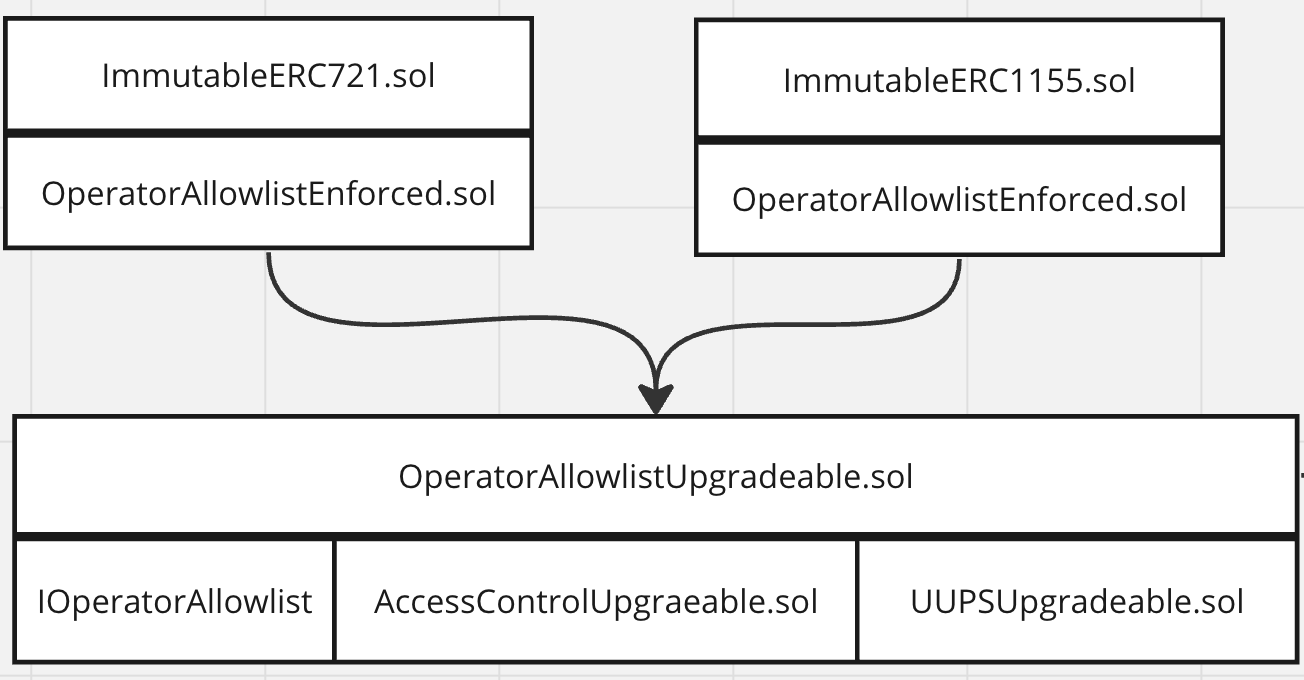
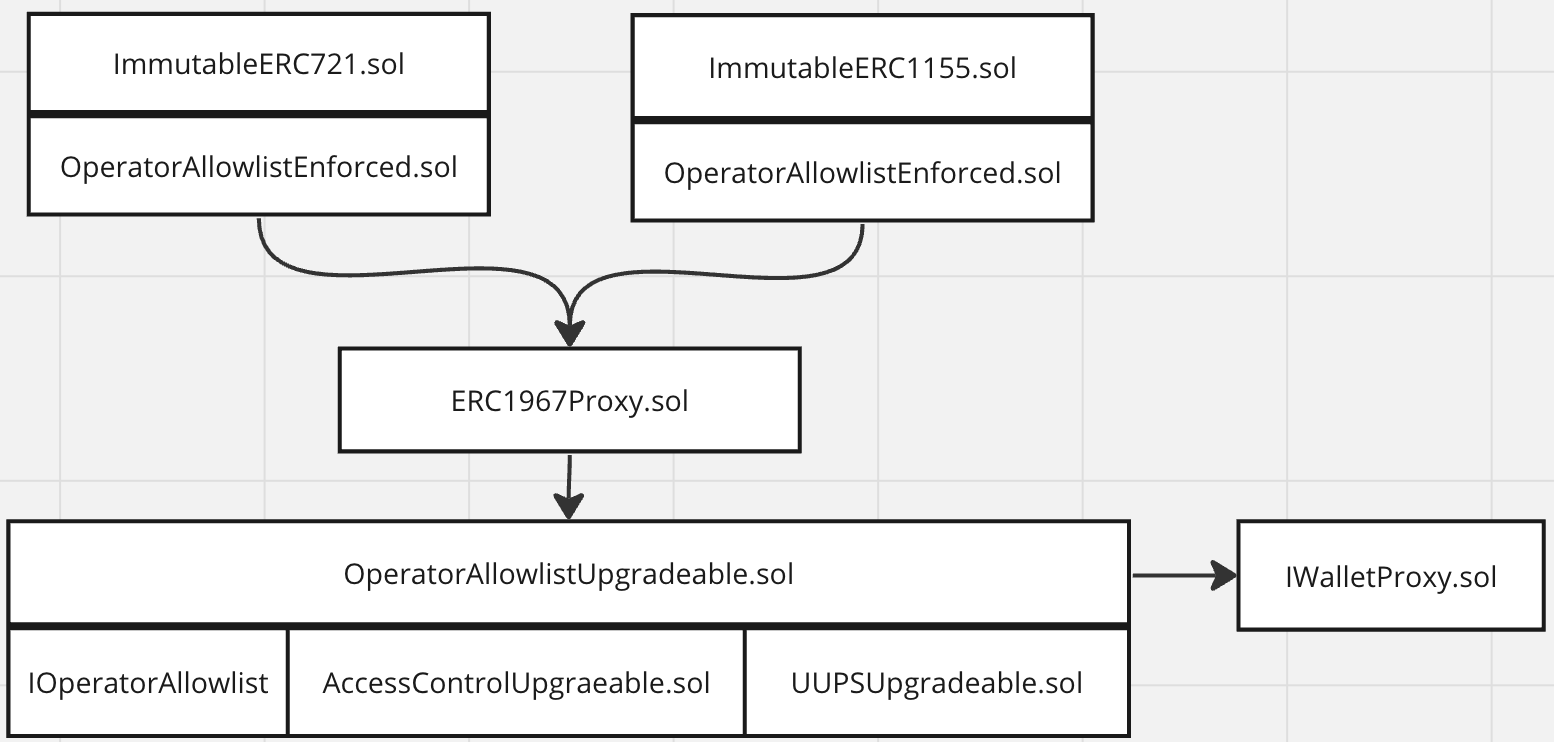
Improve the information provided about contracts

Changed region(s): [[0.0, 0.0, 1.0, 1.0], [0.2761, 0.525, 0.4601, 0.5559], [0.3988, 0.0926, 0.4294, 0.1235]]

diff --git a/contracts/allowlist/README.md b/contracts/allowlist/README.md
@@ -13,12 +13,20 @@ Contract audits and threat models:
 |---------------------------|------------------|-----------------|----------------|
 | No audits or threat models | -                | -               | -              |
 
-OperatorAllowlistUpgradeable Deployments: Note: the addresses are for the ERC 1967 Proxy that the implementation contract sits behind.
+## OperatorAllowlistUpgradeable
+ERC 1967 Proxy that the implementation contract sits behind:
 
 | Location                  | Date             | Version Deployed | Address |
 |---------------------------|------------------|------------------|---------|
-| Immutable zkEVM Testnet   | Jan 22, 2024     | [929cbb](https://github.com/immutable/contracts/blob/929cbbb9bfabdc854b2c21b1c7a8c7ab396f6676/contracts/allowlist/OperatorAllowlistUpgradeable.sol)     | [0x6b969FD89dE634d8DE3271EbE97734FEFfcd58eE](https://explorer.testnet.immutable.com/address/0x6b969FD89dE634d8DE3271EbE97734FEFfcd58eE)  |
-| Immutable zkEVM Mainnet   | Jan 22, 2024 | [929cbb](https://github.com/immutable/contracts/blob/929cbbb9bfabdc854b2c21b1c7a8c7ab396f6676/contracts/allowlist/OperatorAllowlistUpgradeable.sol)    | [0x5F5EBa8133f68ea22D712b0926e2803E78D89221](https://explorer.immutable.com/address/0x5F5EBa8133f68ea22D712b0926e2803E78D89221?tab=contract)       |
+| Immutable zkEVM Testnet   | Jan 22, 2024     | [3dac7b](https://github.com/OpenZeppelin/openzeppelin-contracts/blob/3dac7bbed7b4c0dbf504180c33e8ed8e350b93eb/contracts/proxy/ERC1967/ERC1967Proxy.sol)     | [0x6b969FD89dE634d8DE3271EbE97734FEFfcd58eE](https://explorer.testnet.immutable.com/address/0x6b969FD89dE634d8DE3271EbE97734FEFfcd58eE)  |
+| Immutable zkEVM Mainnet   | Jan 22, 2024 | [3dac7b](https://github.com/OpenZeppelin/openzeppelin-contracts/blob/3dac7bbed7b4c0dbf504180c33e8ed8e350b93eb/contracts/proxy/ERC1967/ERC1967Proxy.sol)      | [0x5F5EBa8133f68ea22D712b0926e2803E78D89221](https://explorer.immutable.com/address/0x5F5EBa8133f68ea22D712b0926e2803E78D89221)       |
+
+OperatorAllowlistUpgradeable implementation contract:
+
+| Location                  | Date             | Version Deployed | Address |
+|---------------------------|------------------|------------------|---------|
+| Immutable zkEVM Testnet   | Jan 22, 2024     | [929cbb](https://github.com/immutable/contracts/blob/929cbbb9bfabdc854b2c21b1c7a8c7ab396f6676/contracts/allowlist/OperatorAllowlistUpgradeable.sol)     | [0x700dA7D7845310c9B032d04878eD73908b23d805](https://explorer.testnet.immutable.com/address/0x700dA7D7845310c9B032d04878eD73908b23d805)  |
+| Immutable zkEVM Mainnet   | Jan 22, 2024 | [929cbb](https://github.com/immutable/contracts/blob/929cbbb9bfabdc854b2c21b1c7a8c7ab396f6676/contracts/allowlist/OperatorAllowlistUpgradeable.sol)    | [0xe0337f80Fa41Cd5BBa154F15AD0708b542bAd17a](https://explorer.immutable.com/address/0xe0337f80Fa41Cd5BBa154F15AD0708b542bAd17a)       |
 
 
 # Architecture
@@ -29,15 +37,23 @@ The architecture of the Operator Allowlist system is shown below.
 
 ## OperatorAllowlistEnforced
 
-OperatorAllowlistEnforced is an abstract contract that token contracts can inherit in order to set the address of the OperatorAllowlist registry that it will interface with, so that the token contract may enable the restriction of approvals and transfers to allowlisted users.
-
-ERC 721 and ERC 1155 contracts extend the OperatorAllowlistEnforced contract. The OperatorAllowlistEnforced contract includes the Solidity modifiers validateApproval and validateTransfer. Token contracts should ensure that these modifiers are called whenever an approval or transfer takes place. The modifiers call a function isAllowlisted in the OperatorAllowlistUpgradeable contract. Doing this enables the restriction of approvals and transfers to allowlisted users.
-
-## OperatorAllowlistUpgradeable
-
-OperatorAllowlistUpgradeable is a contract implementation of an Allowlist registry, storing addresses and bytecode which are allowed to be approved operators and execute transfers of interfacing token contracts (e.g. ERC721/ERC1155). The registry will be a deployed contract that tokens may interface with and point to. The OperatorAllowlistUpgradeable contract is a Universal Upgradeable Proxy Standard (UUPS) upgrade contract, and has access control features, and implements the IOperatorAllowlist interface. OperatorAllowlistEnforced calls OperatorAllowlistUpgradeable based on functions defined in the IOperatorAllowlist interface.
+ERC 721 and ERC 1155 contracts extend the `OperatorAllowlistEnforced` contract. The `OperatorAllowlistEnforced` contract includes the Solidity modifiers `validateApproval` and `validateTransfer`. Token contracts should ensure that these modifiers are called whenever an approval or transfer takes place. The modifiers call a function `isAllowlisted` in the `OperatorAllowlistUpgradeable` contract. Doing this enables the restriction of approvals and transfers to allowlisted users.
 
 ## IOperatorAllowlist
 
-IOperatorAllowlist is an interface required for interacting with an OperatorAllowlist compliant contract.
+`IOperatorAllowlist` is an interface which provides the API used by `OperatorAllowlistEnforced` to communicate with `OperatorAllowlistUpgradeable`. 
+
+
+## OperatorAllowlistUpgradeable
+
+`OperatorAllowlistUpgradeable` is a contract implementation of an allow list registry. It stores addresses and wallet proxy bytecode hashes which are approved to be a part of ERC 721 adn ERC 1155 token approvals and transfers. 
+
+The `OperatorAllowlistUpgradeable` contract is a Universal Upgradeable Proxy Standard (UUPS) upgrade contract, and has access control features, and implements the `IOperatorAllowlist` interface. `OperatorAllowlistEnforced` calls `OperatorAllowlistUpgradeable` based on functions defined in the `IOperatorAllowlist` interface. 
+
+The contract holds sits behind an `ERC1967Proxy` contract. Thus, the state of the contract is stored at the address of the `ERC1967Proxy` contract, and the implementation logic is stored at the address of the `OperatorAllowlistUpgradeable` contract.
+
+## IWalletProxy.sol
+
+The `IWalletProxy` is the interface provided by the Passport Wallet contract proxy to allow the `OperatorAllowlistUpgradeable` contract to determine the implementation address of the wallet. 
+
 

diff --git a/contracts/random/README.md b/contracts/random/README.md
@@ -17,7 +17,9 @@ Contract threat models and audits:
 |---------------------------|------------------|-----------------|----------------|
 | Not audited and no threat model              | -                | -               | -              |
 
-Deployments:
+## RandomSeedProvider
+
+The RandomSeedProvider contract has not yet been deployed.
 
 | Location                  | Date             | Version Deployed | Address |
 |---------------------------|------------------|------------------|---------|
